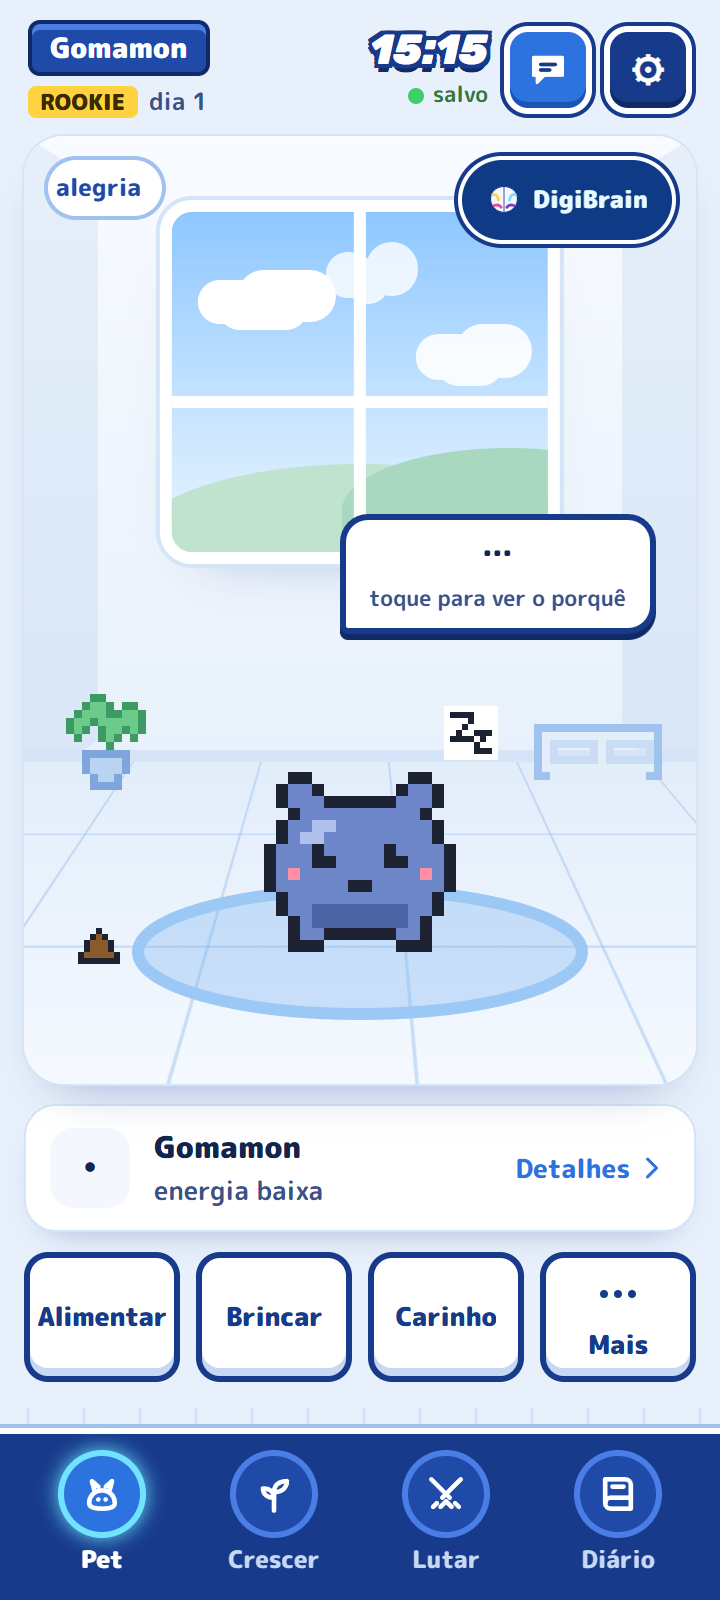
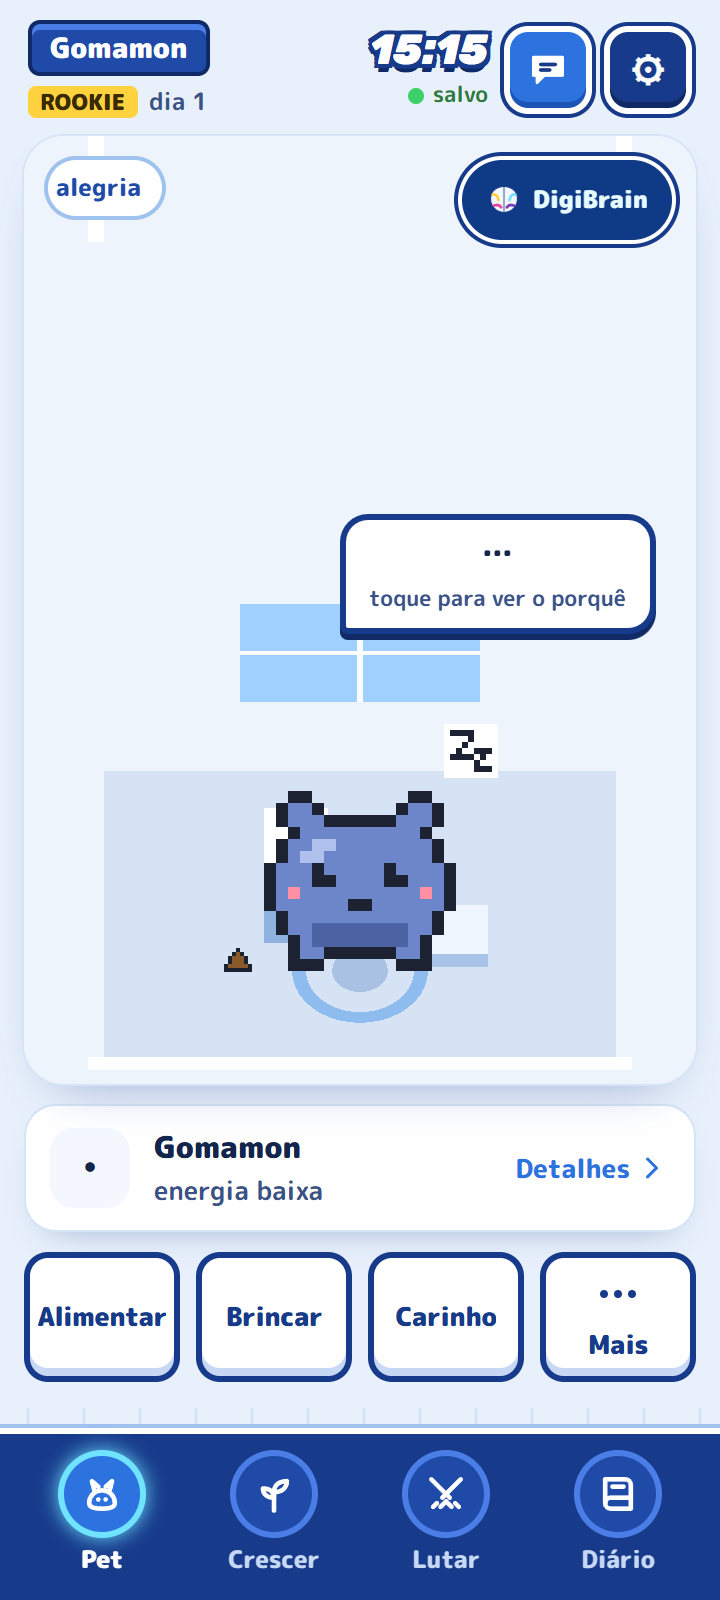
TELA-PET: a decisão da cena 3D, as medidas (chunk, tempo de abrir) e as instruções da M3; capturas refeitas (3D e sem WebGL)

Changed region(s): [[0.0306, 0.125, 0.9778, 0.6875], [0.1222, 0.125, 0.1528, 0.1562]]

diff --git a/docs/TAREFA_V2_TELA_PET.md b/docs/TAREFA_V2_TELA_PET.md
@@ -44,16 +44,21 @@ testes de ponta a ponta que leem a tela Pet.
 - a casca do desktop (o topo e a barra lateral);
 - as capturas das outras 26 telas do roteiro `npm run capturas`, que têm de sair iguais.
 
-**Por que o cenário em CSS e SVG, e não a vista do POC 3D.** O habitat vira o mundo 3D depois do Gate C (P4).
-- Um componente de cenário isolado, atrás do canvas do pet, é trocado inteiro por essa vista quando ela chegar, sem tocar no resto da
-  tela.
-- Trazer o Three.js agora poria cerca de 600 KB no jogo e uma cena 3D sem física nem pet, só para servir de fundo.
+**O cenário: a vista 3D do POC (decisão do Matheus de 2026-10-19, opção b).**
+- O cenário é a vista ortográfica inclinada do WORLD-POC (Three.js só como vista, o arranjo V), carregada por import dinâmico ao abrir a
+  tela Pet, num chunk à parte.
+- Sem WebGL, ou se a cena falhar, fica a reserva: o quarto em CSS e SVG (`CenarioPet`).
+- A cena só desenha a sala, os objetos e o pet como sprite em escala inteira. Nada da física do POC nem o cérebro de teste decidem algo
+  do jogo; o jogo continua com o motor de hoje.
+- A cena é decorativa (`aria-hidden`), e a necessidade e as ações continuam em controles reais.
 
 ## 4. Experimento e gate
 
 Sem run. O gate:
 - `npm run tipos`, `npm run build`, `npm test` e `npm run e2e` passam;
-- `npm run capturas`: só as 4 capturas da tela Pet mudam (`pet-estado` e `pet-v11`, em 390 e 1280), e as outras 26 ficam iguais.
+- `npm run capturas`: só as 4 capturas da tela Pet mudam (`pet-estado` e `pet-v11`, em 390 e 1280), e as outras 26 ficam iguais;
+- o chunk da cena 3D (gzip) e o tempo de abrir a tela Pet medidos;
+- a M3 no celular, pela página do jogo (as instruções na seção 9; o Matheus mede).
 
 ## 5. Entrega
 
@@ -84,11 +89,33 @@ O ok visual nas capturas antes do merge.
 
 **O que mudou na tela Pet** (`web/app/src/telas/pet/`, `src/estilo/pet_home.css`).
 
-- **`CenarioPet.tsx`, novo:** o quarto 2.5D em CSS e SVG.
+- **`cena3d.ts`, novo:** o cenário, a vista do POC só como vista. Carrega por import dinâmico e é o único módulo do app que importa o
+  three.
+  - **É uma cópia adaptada de `poc/mundo3d/vista.ts`, e não um import.** O G-FRONTEIRA (`test/poc_mundo3d.test.ts`, dos Gates A e B)
+    segura que as telas do jogo não importam o POC, e ele continua passando sem mudança. As duas vistas se juntam quando o mundo 3D
+    entrar no jogo (P4).
+  - **Vem do POC:** a câmera ortográfica inclinada (50°), a sala de 16 × 12 células com as paredes e os dois obstáculos (o alto e o
+    baixo), as caixas coloridas por face sem luz, o pet como `THREE.Sprite` com filtro nearest num número inteiro de pixels por texel e
+    o canto alinhado ao pixel, e a sombra.
+  - **Muda para o Pet:**
+    - as cores claras;
+    - as paredes altas e a janela na do fundo;
+    - uma plataforma sob o pet;
+    - o pet desenhado por cima de tudo (o sprite, de frente para a câmera, entraria no obstáculo alto de trás);
+    - sem bola, sem comida e sem oclusão;
+    - o enquadramento: o chão em até 68% da altura e encostado embaixo, e a parede no resto;
+    - o pet parado no meio da sala, que só balança quando brinca ou explora;
+    - um quadro a cada 120 ms, como o palco 2D.
+  - **A textura do pet:** o quadro do idle do atlas (local), pelo `desenharSprite` (a forma sombria inclusive), ou a grade de reserva.
+- **`CenarioPet.tsx`, novo:**
+  - o `CenaPet` liga a cena 3D por import dinâmico ou, sem WebGL ou com falha, a reserva;
+  - a reserva (`CenarioPet`) é o quarto 2.5D em CSS e SVG;
+  - com `?medir3d=1` no endereço, aparece o botão da M3.
   - A parede e a janela (céu, nuvens, colinas), as paredes laterais em fuga e o chão em perspectiva (uma grade em `rotateX`).
   - Uma planta e um móvel baixo em grade de pixels.
   - A noite vem do motor (`eNoite`): céu escuro com estrelas e penumbra.
-- **`PalcoPet.tsx`:** o canvas ficou transparente, por cima do cenário.
+- **`PalcoPet.tsx`:** o canvas ficou transparente, por cima do cenário. Com a cena 3D ligada, desenha só os extras (a sujeira, o ícone
+  rápido e a marca de saúde), em volta do retângulo do sprite que a cena informa (`cenaEstado.ts`). Com a reserva:
   - Desenha a plataforma (a peça do atlas, ou um aro sem ele), a sujeira, o pet ou o ovo e o ícone rápido.
   - O pet sai na maior escala inteira que cabe em 42% da altura e 60% da largura da cena, até 6x, com os pés a 86% da altura.
   - Sem o atlas, o sprite de reserva também sai em escala inteira e com o mesmo movimento.
@@ -126,8 +153,28 @@ Ajustado depois da primeira captura:
 Não copiado da referência, por não ter dado no motor ou por ser ilustração: o número "01 HOME", o logo com japonês, o sino, nível e
 XP, o texto "Parece animado hoje!".
 
-**Por que o cenário em CSS e SVG.** Ver a seção 3: o componente sai inteiro quando a vista do mundo 3D chegar (P4), e o Three.js não
-entra no jogo só para servir de fundo.
+**A cena 3D: custo e tempo de abrir** (Chrome desta máquina, build servido pelo `servidor_local.py`, 3 rodadas cada; artefato: o roteiro
+de medida descrito no PR).
+- **Chunk `cena3d`:** 539 KB, 135 KB em gzip, à parte. O chunk principal ficou em 777 KB (238 KB em gzip), quase igual ao de antes.
+- **Do clique no Pet até o primeiro quadro da cena:**
+
+  | | 1ª vez (baixa o chunk) | depois (chunk em cache) |
+  |---|---|---|
+  | 390 px | 90 a 139 ms | 36 a 40 ms |
+  | 390 px, com a CPU 4× mais lenta (estimativa de celular) | 221 a 250 ms | 80 a 100 ms |
+  | 1280 px | 68 a 94 ms | 36 a 48 ms |
+
+  Não há rede de verdade nessa medida: o servidor é local.
+
+**A M3 no celular, pela página do jogo** (o Matheus mede; critério PROPOSTO, o mesmo da M3 do POC: `fps_media` de pelo menos 30).
+1. No PC: `cd web/app && npm run dev -- --host`. O Vite mostra o endereço da rede (`http://<IP do PC>:5173/`) e serve o atlas local.
+   Se o celular não abrir, libere a porta 5173 no firewall do Windows, como na M3 do POC.
+2. No celular, na mesma rede: abra `http://<IP do PC>:5173/?medir3d=1#/pet/estado`. Na primeira visita o jogo pede o brasão e o ovo; o
+   ovo já aparece na cena 3D.
+3. Na tela Pet, toque em "Medir 10 s (M3)". Durante 10 s a cena desenha a cada quadro do navegador. No fim aparece o JSON da medida:
+   `fps_media`, a mediana e o p95 do quadro, o tamanho do canvas e o aparelho. Ele vai para a área de transferência quando o navegador
+   deixa; se não, copie o texto da caixa.
+4. Cole o JSON no PR.
 
 **Gate.**
 
@@ -135,21 +182,27 @@ entra no jogo só para servir de fundo.
 |---|---|
 | `npm run tipos` | passa |
 | `npm test` (Vitest) | 43 arquivos, 507 testes, todos passam |
-| `npm run e2e` | 73 de 73 |
+| `npm run e2e` | 74 de 74, em duas rodadas |
 | `npm run capturas` (referência: a `main` em `b4a423c`) | 26 iguais, pixel a pixel; mudam só as 4 da tela Pet (`pet-estado` e `pet-v11`, em 390 e 1280), como pedido |
 
 Sobre o e2e:
-- passou de 70 para 73: entrou o teste "Pet (Home)" em 360, 390 e 1280 (o cenário é a maior área, o canvas `pixelated`, três ações e
+- passou de 70 para 74. Entrou o teste da cena: a cena 3D com WebGL (`aria-hidden`, o canvas desenhado, sem a reserva) e, com o WebGL
+  desligado, a reserva sem erro.
+- Mudou o teste de foco pelo teclado, que agora roda com movimento reduzido. Sob carga, com a cena 3D nos outros workers, a transição
+  do `dl-btn` dava um falso "sem foco".
+- Do teste "Pet (Home)": entrou o teste "Pet (Home)" em 360, 390 e 1280 (o cenário é a maior área, o canvas `pixelated`, três ações e
   "Mais", sem hexágono nem retrato redondo, os detalhes abrem e fecham, sem rolagem lateral);
 - dois testes mudaram junto com a tela: o do jogo completo abre "Mais" antes de clicar Elogiar, e o do DigiBrain em 1280 abre o
   painel pelo botão do cenário.
 
 Capturas:
-- versionadas, com o sprite de reserva: `docs/estilo_up/pranchas/capturas/PetHome*.png` (lista no README das pranchas);
+- versionadas, com o sprite de reserva (na cena 3D) e sem WebGL (o cenário de reserva): `docs/estilo_up/pranchas/capturas/PetHome*.png` (lista no README das pranchas);
 - com o atlas: só locais.
 
 **Números escolhidos (PROPOSTOS, de layout):**
-- a escala do pet (42% da altura, 60% da largura, até 6x);
+- a escala do pet (42% da altura, 60% da largura; até 12x na cena 3D, em pixels do canvas, e até 6x na reserva, em px de CSS);
+- o chão da cena 3D em até 68% da altura;
+- o pet em (meio, 68% da profundidade) da sala;
 - os pés a 86% da cena;
 - a altura da cena no celular (`100dvh - 326px`, entre 340 e 660 px).
 

diff --git a/docs/estilo_up/pranchas/README.md b/docs/estilo_up/pranchas/README.md
@@ -40,7 +40,7 @@ Os tokens, os ícones e o pet de reserva são os da `TelasLayoutDesktop.html` (b
 tem fica marcado na tela como "sem dado no motor". As capturas estão em `capturas/TelasCelular390_NN.png`, `capturas/TelasCelular360_NN.png`
 e `capturas/TelasCelular_mapa.png`.
 
-**A tela Pet como a Home da referência** (2026-10-19, `docs/TAREFA_V2_TELA_PET.md`): capturas do app, não prancha. Elas foram tiradas com o
+**A tela Pet como a Home da referência** (2026-10-19, `docs/TAREFA_V2_TELA_PET.md`): capturas do app, não prancha. O cenário é a vista 3D do POC. Elas foram tiradas com o
 sprite de reserva, sem o atlas e sem a decoração do Digimon UP (só locais), e com os avisos de "não carregou" escondidos só na captura.
 As capturas com o atlas ficam fora do repositório.
 
@@ -52,5 +52,6 @@ As capturas com o atlas ficam fora do repositório.
 | `capturas/PetHome390_detalhes.png` | celular, com a folha "Como ele está" aberta |
 | `capturas/PetHomeDesktop.png` | desktop, 1280×800 |
 | `capturas/PetHomeDesktop_detalhes.png` | desktop, com a coluna de detalhes aberta |
+| `capturas/PetHome390_semwebgl.png`, `capturas/PetHomeDesktop_semwebgl.png` | sem WebGL: o cenário de reserva, em CSS e SVG |
 
 Todas mostram o pet v11 do e2e.

diff --git a/docs/MAPA_REPOSITORIO.md b/docs/MAPA_REPOSITORIO.md
@@ -94,3 +94,4 @@ O mapa nó a nó, de onde saiu e para onde foi, está em `docs/historico/bancada
 As seções acima são cópias inteiras do CLAUDE.md antigo (o G-NADA-PERDIDO confere). O que mudou depois entra aqui:
 - **2026-10-19, TAREFA_V2_FRONT_REACT (#368):** o app de `web/app/src/` passou de Preact para **React** (Vite mantido). Comando novo: `cd web/app && npm run capturas` — as capturas das telas contra a referência, pixel a pixel.
 - **2026-10-19, TAREFA_V2_FRONT_REACT, etapa 2:** **Tailwind 4** (só tema e utilidades, sem o preflight; `src/estilo/tailwind.css`, com os tokens `--dl-*` e `--ui-*` no tema), **shadcn** (`components.json`, `src/lib/utils.ts`, `src/componentes/ui/`, alias `@/` = `src/`) e **lucide-react**, sem mudar o visual de nenhuma tela.
+- **2026-10-19, TAREFA_V2_TELA_PET:** a tela Pet tem a vista 3D do POC como cenário (`web/app/src/telas/pet/cena3d.ts`, o único módulo do app que importa o three, por import dinâmico; a reserva sem WebGL é o `CenarioPet`). A M3 da cena no celular: `?medir3d=1` no endereço do jogo (instruções na TAREFA).
